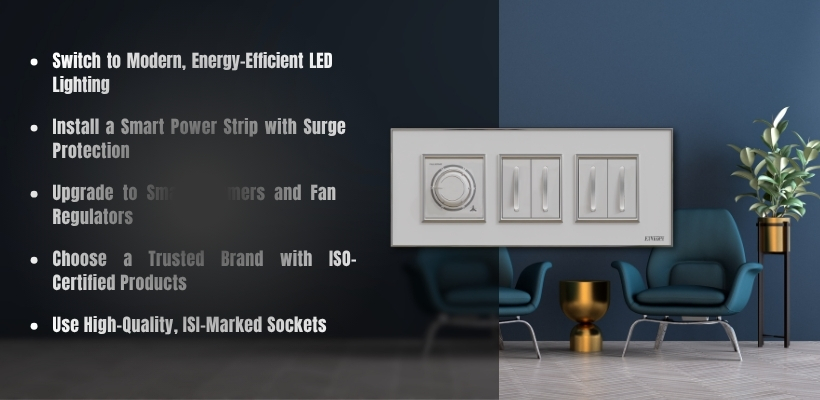
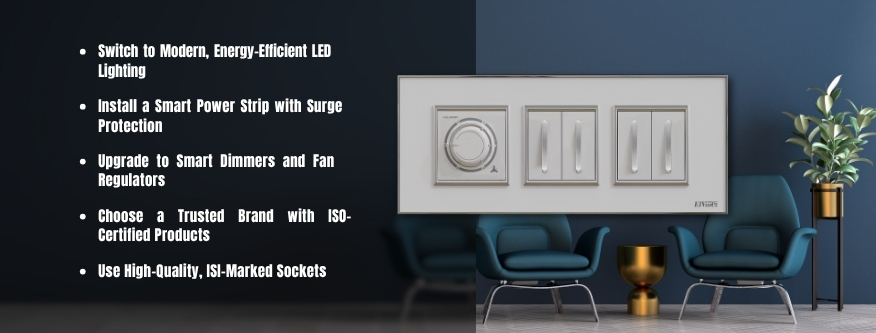
✅  Blog page images Bug Fixed

diff --git a/assets/style/styles/blogCard.css b/assets/style/styles/blogCard.css
@@ -110,7 +110,8 @@
 }
 
 .card-5 {
-  background-image: url("../../images/blog7inner.webp");
+  background-image: url("../../images/blog7outer.webp");
+
 }
 
 .card-6 {
